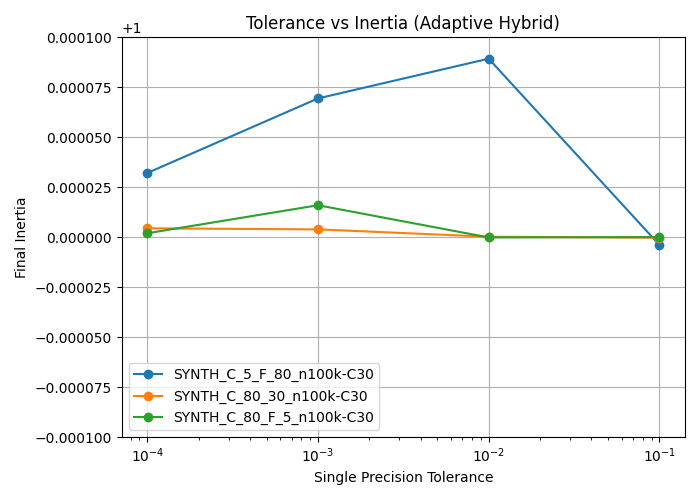
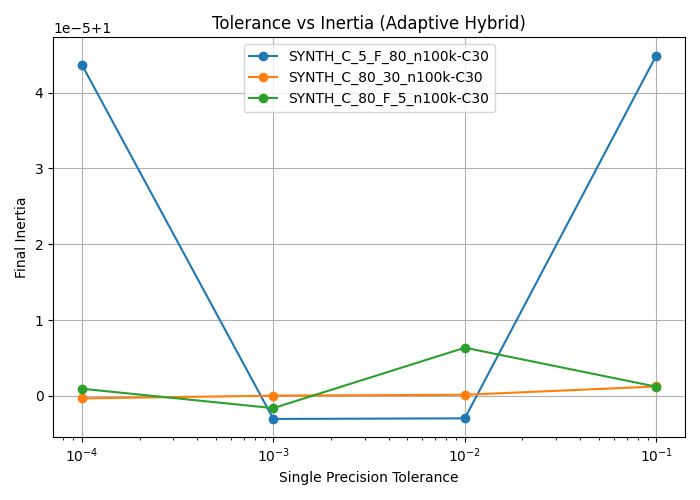
push changes

diff --git a/main.py b/main.py
@@ -264,7 +264,7 @@ def plot_tolerance_vs_inertia(results_path="Results/hybrid_kmeans_results_expB.c
         plt.plot(group_sorted["tolerance_single"], group_sorted["Inertia"], marker='o', label=f"{ds}-C{k}")
 
     plt.title("Tolerance vs Inertia (Adaptive Hybrid)")
-    plt.ylim(0.9999, 1.0001)
+    # plt.ylim(0.9999, 1.0001)
     plt.xlabel("Single Precision Tolerance")
     plt.xscale('log')
     plt.ylabel("Final Inertia")
@@ -367,7 +367,7 @@ def run_one_dataset(ds_name: str, X_full: np.ndarray, y_full, rows_A, rows_B):
         for n_clusters in n_clusters_list:
            # for n_features in n_features_list          
 
-                X_cur = X_ns[:, :n_features]   
+                X_cur = X_ns  
                 y_true_cur = y_ns          
 
                 print(f"→ n={n_samples:,} F={n_features} C={n_clusters}  "f"({ds_name})", flush=True)
